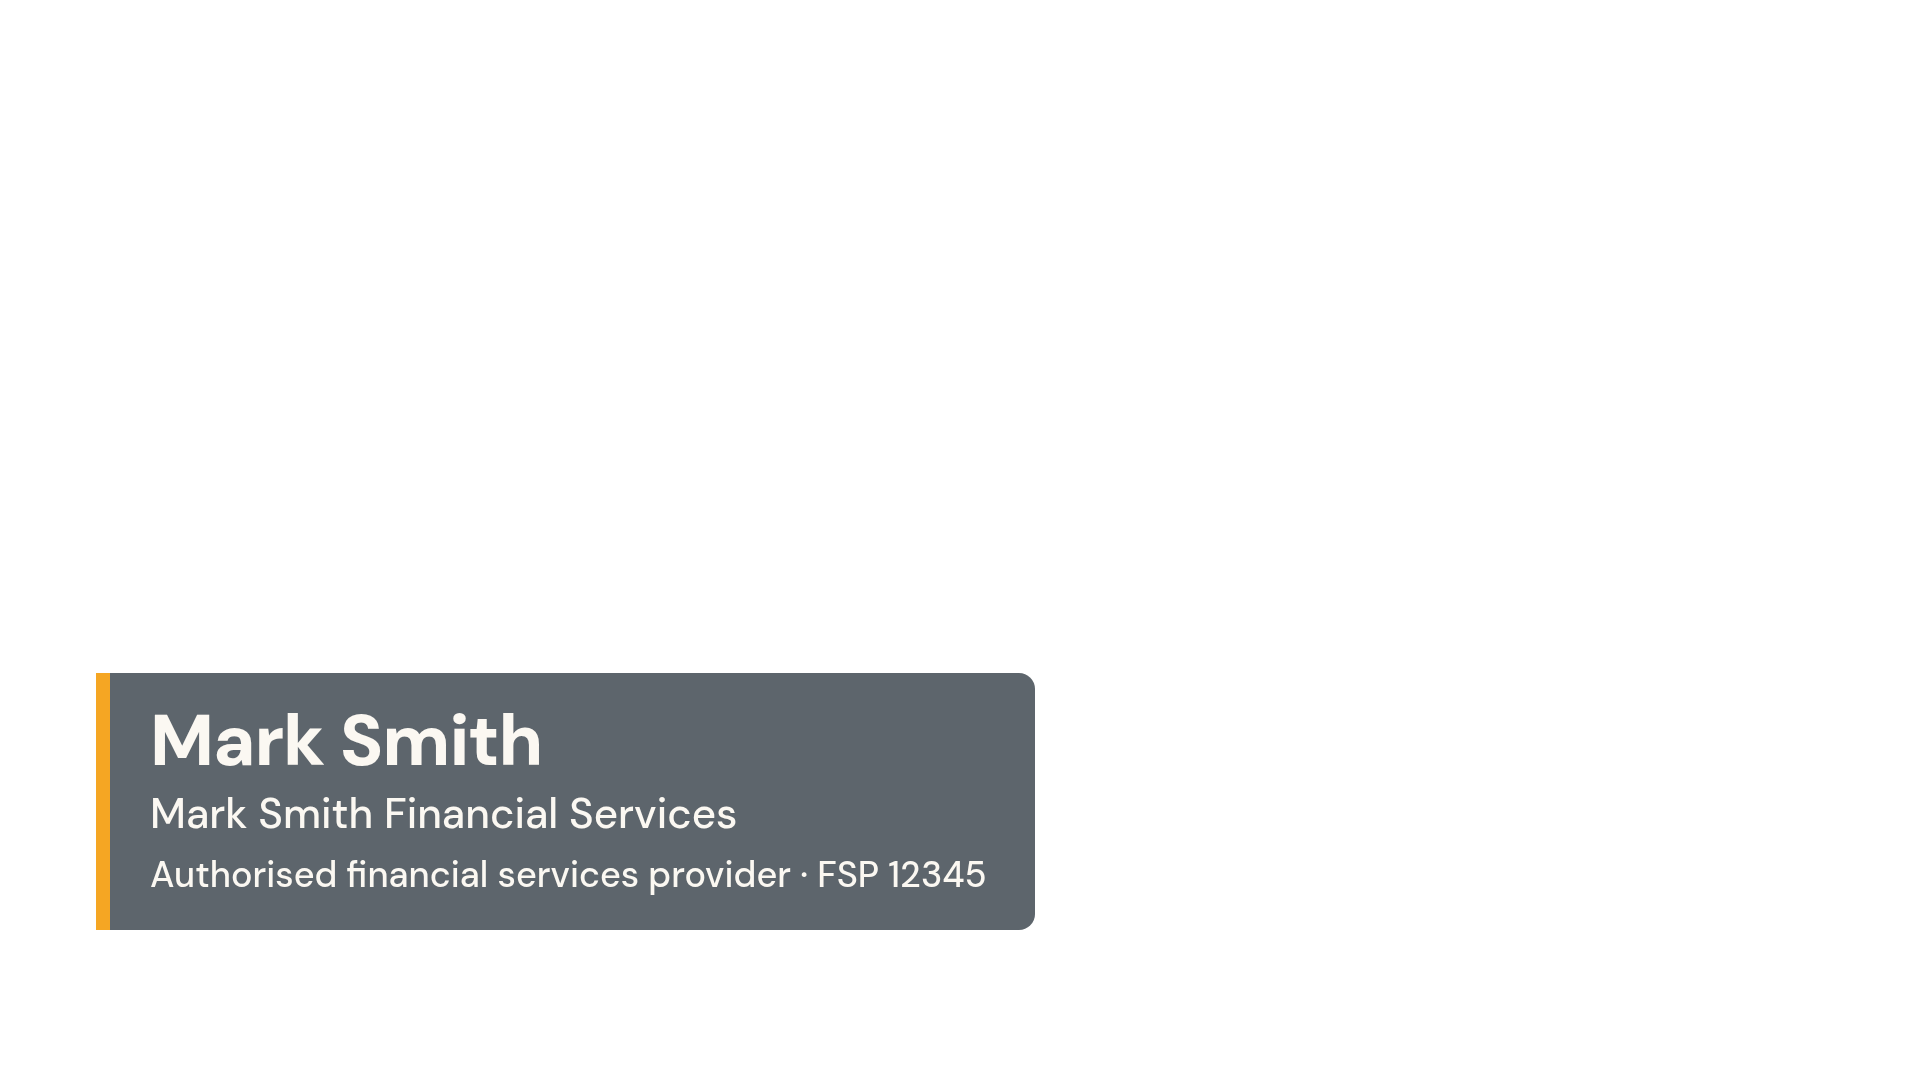
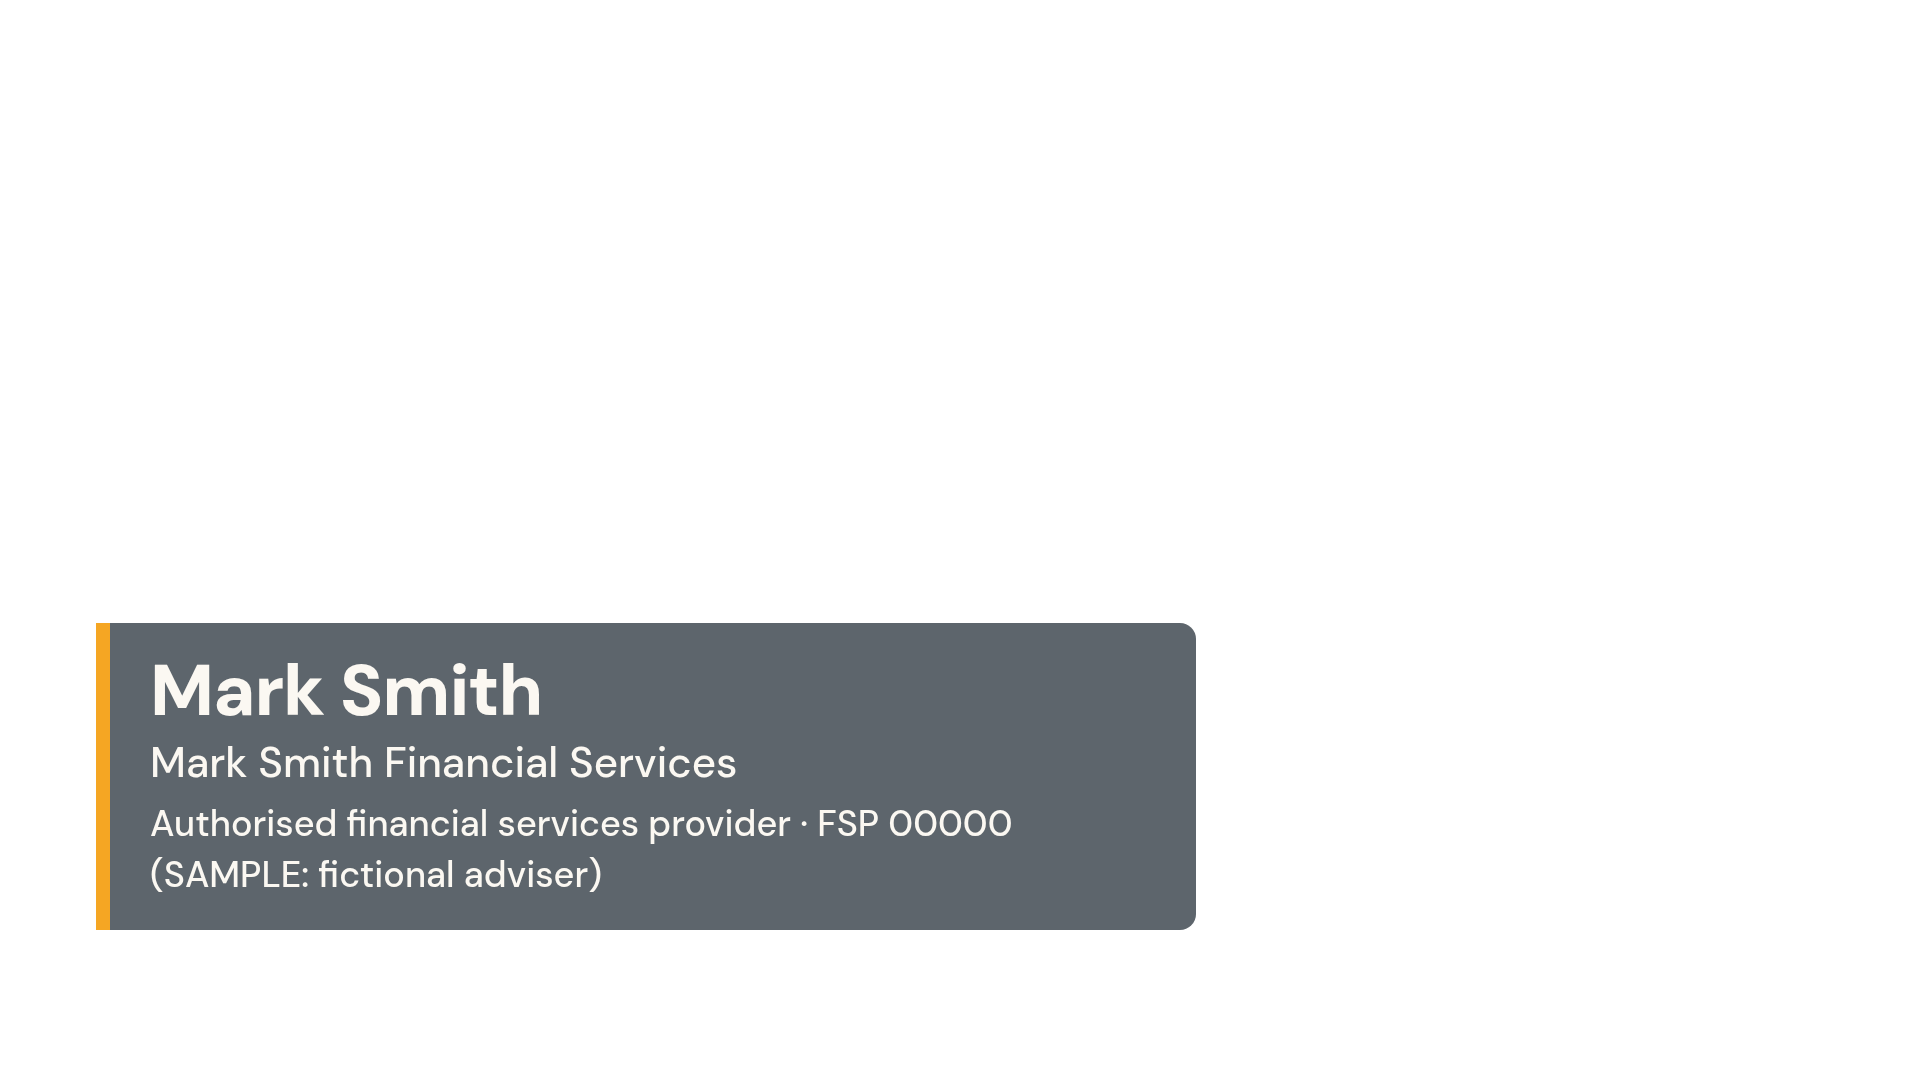
brand: exports re-rendered with FSP 00000 (SAMPLE), intro-video SAMPLE tag visible from frame 0 (review 4 #10/#11)
Claude-Session: https://claude.ai/code/session_01FF61Ji9PBgmvmiqFacJeyG

Changed region(s): [[0.0312, 0.55, 0.625, 0.8861]]

diff --git a/brand/templates/intro-video.html b/brand/templates/intro-video.html
@@ -13,7 +13,7 @@ body{width:1080px;height:1920px}
 .end .wm{position:absolute;left:0;right:0;top:1000px;display:grid;justify-items:center;opacity:0}.end .wm img{height:96px}
 .end .who{position:absolute;left:72px;right:72px;top:1180px;text-align:center;font-size:44px;font-weight:800;opacity:0}
 .end .cta{position:absolute;left:0;right:0;top:1290px;display:grid;justify-items:center;opacity:0}.end .cta .pill{font-size:54px;padding:30px 64px}
-.tag{position:absolute;left:0;right:0;top:262px;text-align:center;font-size:33px;font-weight:800;color:var(--sm-amber);opacity:0}
+.tag{position:absolute;left:0;right:0;top:262px;text-align:center;font-size:33px;font-weight:800;color:var(--sm-amber);opacity:1}
 </style>
 <body class="dark">
 <div class="l hd" id="l1" style="top:370px">Sort your cover.</div>
@@ -39,7 +39,7 @@ window.__setT=function(t){
   ['l1','l2','l3','sil','lt'].forEach(i=>{ if(ending) $(i).style.opacity=Math.min(+$(i).style.opacity,1-e); });
   $('tk').setAttribute('stroke-dashoffset',1-c((t-6.8)/.4));   // the single 400 ms draw
   pop($('wm'),t,7.3,.4,24); pop($('who'),t,7.6,.4,24); pop($('cta'),t,7.9,.4,24);
-  $('tag').style.opacity=t>=0.2?1:0;
+  $("tag").style.opacity=1;
 };
 window.__setT(0);
 </script>

diff --git a/deliverables/visual-producer/SUMMARY.md b/deliverables/visual-producer/SUMMARY.md
@@ -20,3 +20,6 @@ C01, C02 (H12 plus H2 on hold NH-PCD-02), C03, C05, C12 (H18 plus H8 on hold NH-
 ## Format pass (2026-10-02)
 4:5 and 1:1 motion rendered for the three first-submit concepts (C01, C03, C14; 6 renders, hook scaled 0.875×/0.72×, tick at y 72/56), 6 s 4:5 motion-still loops for C01, C02 H12, C08 and C12 H18 (4 renders, 6.00 s exact), the C04 1:1 carousel (4 cards, card 4 = end card), and `.srt` sidecars for all 18 9:16 videos from the `tl`/brief timelines (on-screen text + caption where they differ). 32 new files; the existing 72 untouched; manifest 104 rows (JSON + CSV, `fmt` adds `m6`/`srt`); review sheet shows motion by ratio, loops, cards and srt links. All stills < 40 KB, all videos < 0.7 MB; per-video QA flags pass. New renderer flags: `--extras --ratios= --m6 --carousel --srt`. Still not rendered: 1:1 and 4:5 motion for the other twelve concepts (media-buyer call).
 **needs_human:** C12 loop caption follows v1.1 ("age, health, smoking and what the cover must do") vs the PCD brief ("age, health and smoking") — compliance-qa/PCD confirm; hold variants (C02 H2, C12 H8) have srt files but stay not-for-upload; if Meta's caption upload wants captions only, srt is regenerated; over-3 s rows carried.
+
+## Sample FSP + intro-video tag (review 4 #10/#11, 2026-10-02)
+Brand exports re-rendered after the sample FSP change: `npm run logos` (the cobrand sample lockup was the last "12345") then `npm run render` (58 PNGs, 0 size mismatches, largest 99 KB) — intro-card, reminder, what-to-expect, lower-third sample and the two feed samples refreshed, `exports/manifest.json` current; `grep -rl 12345` across brand/exports, logo, templates, scripts is empty. `intro-video.html`: the "SAMPLE: fictional adviser" tag is now visible from frame 0 (lower third animation unchanged); proof `assets/proofs/intro-video-frame0.png`. The intro-video MP4 itself is not re-rendered until `npm run video`.
